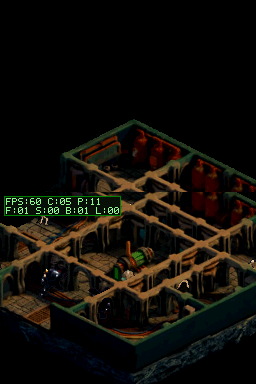
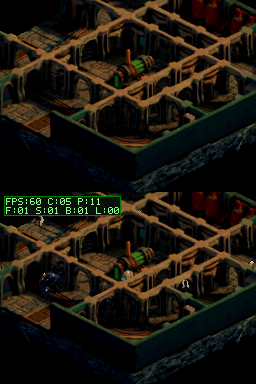
fix: keep upper dungeon floor in view

diff --git a/source/main.c b/source/main.c
@@ -1503,7 +1503,7 @@ int main(void) {
     init_bg_tile_cache(&s_top_bg_tile_cache);
     init_bg_tile_cache(&s_bot_bg_tile_cache);
     update_screen_hardware_bg(1, s_top_map_ptr, s_cam_x,
-                              s_cam_y > SCREEN_H ? s_cam_y - SCREEN_H : 0);
+                              s_cam_y);
 
     render_screen(s_bot_screen_buf, s_cam_x, s_cam_y, NULL, NULL, NULL);
     draw_fps_hud(s_bot_screen_buf);
@@ -1535,7 +1535,7 @@ int main(void) {
         uint32_t bot_floor = 0, bot_sh = 0, bot_bl = 0;
 
         int top_cam_x = s_cam_x;
-        int top_cam_y = s_cam_y > SCREEN_H ? s_cam_y - SCREEN_H : 0;
+        int top_cam_y = s_cam_y;
 
         uint32_t top_ticks = 0;
 

diff --git a/tests/test_floor_copy_contract.py b/tests/test_floor_copy_contract.py
@@ -13,7 +13,7 @@ class FloorBackgroundContractTest(unittest.TestCase):
         self.assertIn("bg_world_tile(world_x, world_y)", source)
         self.assertIn("memcpy(tile_vram + (uint32_t)slot * 64", source)
         self.assertIn("REG_BG1HOFS =", source)
-        self.assertIn("s_cam_y > SCREEN_H ? s_cam_y - SCREEN_H : 0", source)
+        self.assertIn("int top_cam_y = s_cam_y;", source)
         self.assertNotIn("s_dungeon_world_cache", source)
 
 

diff --git a/walkthroughs/fbx-floor-render-options/walkthrough.md b/walkthroughs/fbx-floor-render-options/walkthrough.md
@@ -8,8 +8,8 @@ Reducir el coste de `F` sin atar el renderer al bake actual de 512×512. El gene
 
 | Ruta | Medición intermedia | Resultado y límite |
 | --- | --- | --- |
-| BG bitmap 8bpp completo | 512×512 requiere 256 KiB de VRAM. A+B cubren el suelo inferior; queda C para actores inferiores. C no puede ser además BG de la pantalla superior, y el hardware de este toolchain no mapea D a Sub BG. Un mapa mayor también exige streaming por ventanas. | No se implementó como ruta final: el coste de VRAM sacrifica el fondo superior y no escala como bitmap completo. |
-| BG tileado con ring map | DeSmuME intérprete, 240 frames: CPU medio 4.92 ms, máximo 5.86 ms; `F` 1.51 ms, `S` 0.80 ms, blits 1.34 ms; 239/240 frames a 60 FPS. Escenario de paseo PASS. | El coste de CPU ya no recorre ni copia el bitmap del mundo por frame; el trabajo depende de las celdas visibles y las filas/columnas que entran al viewport. |
+| BG bitmap 8bpp completo | Build experimental DeSmuME, 240 frames: CPU medio 4.99 ms, máximo 5.86 ms; `F` 1.53 ms; 240/240 a 60 FPS. La imagen completa ocupa 256 KiB de VRAM. | El experimento muestra el bitmap solo abajo; A+B lo ocupan, C queda para actores y no queda bank Sub BG. No escala como bitmap completo más allá de 512×512 y no mejora este perfil frente al ring map. |
+| BG tileado con ring map | DeSmuME intérprete, 240 frames: CPU medio 4.89 ms, máximo 5.91 ms; `F` 1.49 ms, `S` 0.82 ms, blits 1.32 ms; 239/240 frames a 60 FPS. Escenario de paseo PASS. | El coste de CPU ya no recorre ni copia el bitmap del mundo por frame; el trabajo depende de las celdas visibles y las filas/columnas que entran al viewport. |
 | Pantalla superior a 30 Hz | DeSmuME intérprete, 240 frames: CPU medio 5.48 ms, máximo 6.44 ms; `F` 2.91 ms; 240/240 a 60 FPS. | Mantiene la simulación a 60 Hz, pero deja el fondo superior visualmente a 30 Hz y rindió peor que el ring map en este benchmark. |
 
 La referencia física aportada por el usuario sigue siendo `20 FPS` con `F≈38 ms`; DeSmuME es una comparación interna y no valida la DSi. La ruta 1 es un cálculo de VRAM, no una medición de ROM.
@@ -18,17 +18,20 @@ La referencia física aportada por el usuario sigue siendo `20 FPS` con `F≈38 
 
 El generador ya no exige que el atlas entero quepa en los 128 KiB de una bank VRAM: la tabla estática puede crecer hasta el límite de IDs de 16 bits. El cache de VRAM conserva las piezas que se usan en el ring y cambia las celdas al desplazar cámara. Esto admite mundos más grandes con densidad local parecida; la DSi impone un límite inevitable al número de patrones únicos residentes a la vez.
 
-## Validación visual pendiente
+## Validación visual
 
-El escenario produce tres capturas y conserva movimiento, pero la subpantalla superior aparece negra en DeSmuME pese a que el mapa, tiles, paleta y enable de BG se observan en memoria. Por eso esta variante no se considera terminada ni se ha subido a la DSi. La pantalla inferior sí muestra el bake tileado y el HUD:
+La pantalla superior sigue la misma cámara de suelo que la inferior y muestra el bake sin actores; la inferior conserva actores, sombras y HUD. Esto evita el vacío de mapa que se veía al desplazar la cámara superior una pantalla entera hacia arriba en el spawn. El escenario genera tres capturas y conserva el movimiento:
 
-![Spawn del ring map: la captura muestra la pantalla superior negra](assets/option2-spawn.png)
+![Spawn del ring map en ambas pantallas](assets/option2-spawn.png)
 
 ![Movimiento por el pasillo FBX](assets/option2-walk.png)
 
 ## Archivos de perfil
 
+- `assets/option1-profile.txt`
 - `assets/option2-profile.txt`
 - `assets/option3-profile.txt`
-- ROM de la ruta tileada: CRC `6A7EF7CC`.
-- Requiere confirmar el resultado en DSi; el FTP no quedó disponible para una nueva subida en esta sesión.
+
+![Bitmap 8bpp experimental: solo conserva el suelo inferior](assets/option1-spawn.png)
+- ROM de la ruta tileada: CRC `3A428D6C`.
+- Requiere confirmar el resultado en DSi; no se volvió a intentar el FTP tras el timeout previo.

diff --git a/STATUS.md b/STATUS.md
@@ -289,9 +289,9 @@ Este documento registra el historial cronológico de sesiones de desarrollo veri
 ## Sesión 26: Perfilado de rutas de render del suelo FBX
 
 - [x] El atlas de BG 8bpp pasa a ser dato estático escalable hasta IDs de tile de 16 bits; el cache VRAM permanece acotado al viewport móvil, no al ancho/alto total del mundo.
-- [x] Prototipo de mapa tileado y ring map: DeSmuME intérprete 240 frames, CPU medio 4.92 ms, `F=1.51 ms`, 239/240 a 60 FPS; escenario de paseo PASS.
-- [x] Comparado con la opción de refrescar la pantalla superior a 30 Hz: CPU medio 5.48 ms y `F=2.91 ms`, peor que ring map; 240/240 a 60 FPS.
-- [x] Opción de bitmap completo 8bpp evaluada por VRAM: 512×512 consume 256 KiB y no deja bank Sub BG disponible si los actores ocupan C; un mapa mayor requiere streaming.
-- [ ] Captura de DeSmuME deja la pantalla superior negra pese a mapa/tiles/paleta visibles en memoria; no se sube ROM ni se marca como validado.
+- [x] Bitmap 8bpp experimental: 240 frames DeSmuME, CPU medio 4.99 ms, `F=1.53 ms`, 240/240 a 60 FPS; el bitmap 512×512 ocupa 256 KiB y deja la pantalla superior sin BG.
+- [x] Prototipo FBX tileado con ring map: DeSmuME intérprete 240 frames, CPU medio 4.89 ms, `F=1.49 ms`, 239/240 a 60 FPS; escenario de paseo PASS.
+- [x] Refresco de pantalla superior a 30 Hz: CPU medio 5.48 ms y `F=2.91 ms`, peor que ring map; 240/240 a 60 FPS.
+- [x] La pantalla superior muestra el suelo tileado siguiendo la misma cámara; mantiene el render de actores/sombras/HUD completo abajo.
 - [ ] La lectura física del usuario (`20 FPS`, `F≈38 ms`) aún requiere repetir medición en DSi después de corregir pantalla superior.
 - **Evidencia:** [walkthroughs/fbx-floor-render-options/walkthrough.md](walkthroughs/fbx-floor-render-options/walkthrough.md).

diff --git a/walkthroughs/README.md b/walkthroughs/README.md
@@ -36,7 +36,7 @@ Resúmenes acumulativos y auditables de cada entrega y avance de desarrollo en `
 | 23 | Reparación de puntos de colisión FBX y recorte de spans de oclusión | [`fbx-collision-perf-followup/`](fbx-collision-perf-followup/walkthrough.md) | ROM subida; validación física pendiente |
 | 24 | Diagnóstico A/B de la regresión de rendimiento FBX | [`full3d-performance-gap/`](full3d-performance-gap/walkthrough.md) | Medido en DeSmuME; optimización arquitectónica pendiente |
 | 25 | HUD FPS y diagnóstico de rendimiento en Nintendo DSi | [`fps-hud/`](fps-hud/walkthrough.md) | Fix ARM9 comprometido; carga FTP fallida; prueba DSi pendiente |
-| 26 | Perfilado de tres rutas para el suelo FBX | [`fbx-floor-render-options/`](fbx-floor-render-options/walkthrough.md) | Ring map medido en DeSmuME; validación visual superior y DSi pendientes |
+| 26 | Perfilado de tres rutas para el suelo FBX | [`fbx-floor-render-options/`](fbx-floor-render-options/walkthrough.md) | Ring map visible en DeSmuME; medición DSi pendiente |
 
 
 - [Reparación de navegación de la mazmorra FBX](fbx-navigation-repair/walkthrough.md) — conversión y colisión para la escena FBX; incluye escenarios con estado real y límites de validación.
